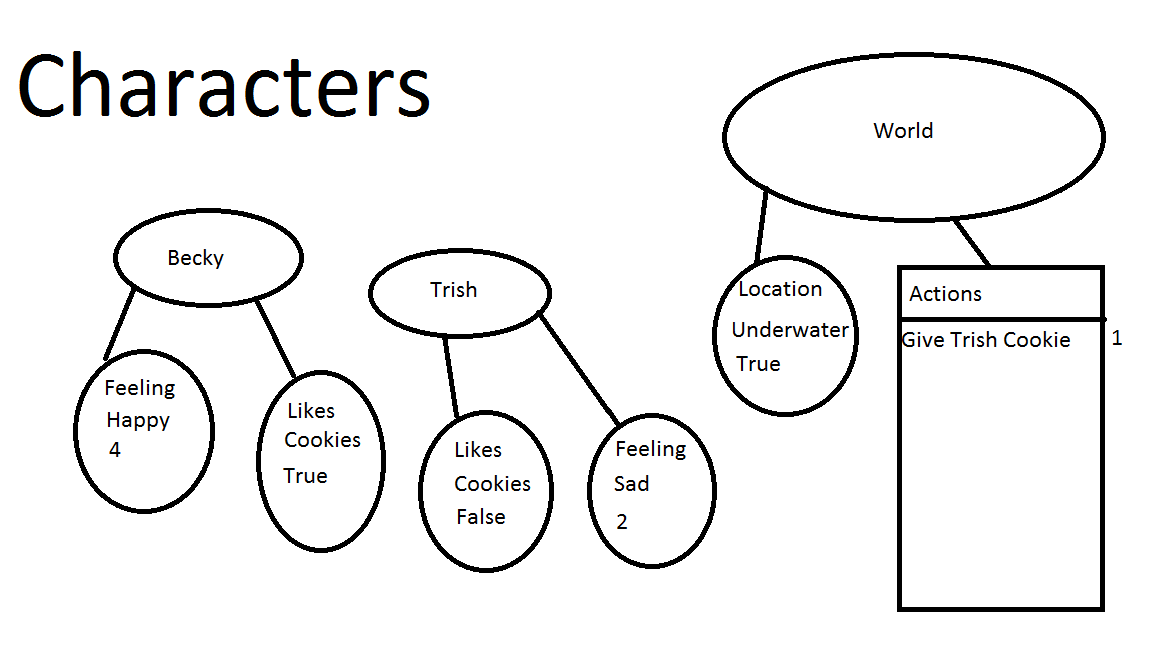
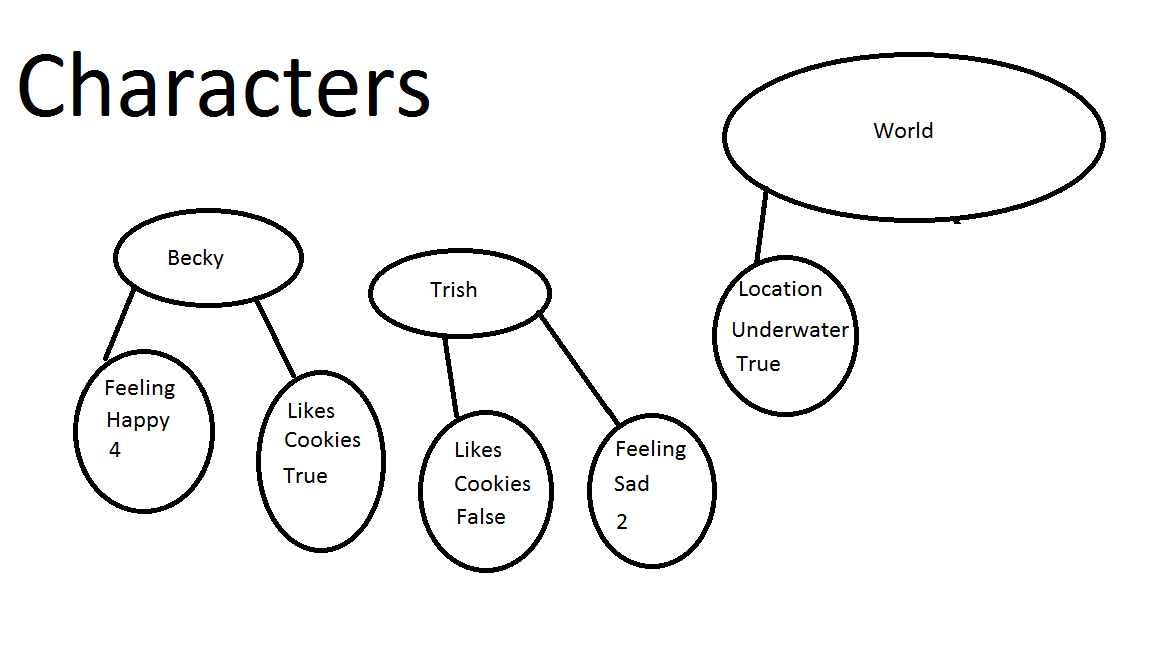
More or less finished README

Changed region(s): [[0.7812, 0.3704, 0.9688, 0.9568], [0.8125, 0.3395, 0.8438, 0.3704]]

diff --git a/README.md b/README.md
@@ -30,7 +30,7 @@ The SDB's basic building blocks are Classes (Not to be confused with Computer Sc
 SDB Classes can either have values of booleans or ints. If Classes have int values, then they have to be given a minimum and a maximum value. SDB Classes are also given default values.
 
 Example JSON to populate an SDB:
-```
+```json
 [
 {
 	"class" : "feeling",
@@ -60,6 +60,218 @@ Example JSON to populate an SDB:
 }
 ]
 ``` 
+
+Characters
+----------
+
+The Characters are entities within StoryTree that can be given characteristics and be interacted with. There are 2 default characters called "World" and "Player", which can also be given characteristics.
+
+![alt tag](https://github.com/grnnn/StoryTree/blob/master/Examples/CharacterExample.png)
+
+Characteristics are expressed by SDB values. You can give a character a characteristic by specifying what the class, type, and value is for that characteristic.
+
+Example JSON to populate characters:
+```json
+{
+	"characters" : ["Becky", "Trish"],
+	"characteristics" : 
+	[
+		{
+			"name" : "Becky", 
+			"class" : "feeling",
+			"type" : "happy",
+			"value" : 4
+		},
+		{
+			"name" : "Becky",
+			"class" : "likes eating",
+			"type" : "cookie",
+			"value" : true
+		},
+		{
+			"name" : "Trish", 
+			"class" : "feeling",
+			"type" : "sad",
+			"value" : 2
+		},
+		{
+			"name" : "Trish",
+			"class" : "likes eating",
+			"type" : "cookies",
+			"value" : false
+		},
+		{
+			"name" : "World", 
+			"class" : "location",
+			"type" : "underwater"
+		},
+		{
+			"name" : "Player",
+			"class" : "owns",
+			"type" : "cookie",
+			"value" : true
+		}
+	]
+}
+```
+
+Action Tree
+-----------
+
+The Action Tree brings StoryTree together, and it is absolutely the most complex part. Every character can be assigned an Action Tree, and Actions make up every node on the tree.
+
+![alt tag](https://github.com/grnnn/StoryTree/blob/master/Examples/ActionTreeExample.png)
+
+An Action is given a name (which doesn't have to be unique), a uid (unique ID, has to be a unique int), a identifier puts it at the top of the tree, a parent uid (0 if at top of tree), a set of children uids, a class,
+a set of Preconditions, and a set of Expressions.
+
+Preconditions are expressed by an SDB Value (class, type, value), a character, and an operator. The operation on the precondition describes how it is compared to a precondition (ex. ">", "<", "=="). All preconditions on an action have to be true for it to be traversed to. All Actions have to have at least 1 Precondition.
+
+Expressions change chracteristics of the StoryTree system. They are also represented as SDB values (class, type, value), a character, and an operator. The operation on the Expression describes how it changes a Characteristic (ex. "+", "-", "="). The character specifies which character's characteristic to change. Actions don't have to have an Expression.
+
+There are two main ways that the Action Tree is interacted with:
+  *Story Tree can retrieve a number of specified leaf (no children) actions from the Action class with the getActions() function. The Action Tree will only return leaf actions that have satisfied all of the preconditions of all preceding parents. (*Note*: If an Action is given a class, all child actions will inherit that class. No more than 1 action from the same class can be returned by the getOptions() function. This is a useful way to break your actions up into categories.)
+  *Story Tree can execute a leaf Action that is accesible by way of getOptions(). You do this with the executeAction() function. This will resolve all expressions of the Action, and then also resolve all of the expressions of all of the parent Actions.
+
+Example JSON to populate Action Tree:
+```json
+[
+{
+	"name" : "Trish Looks sad. Ask her if she's okay.",
+	"uid" : 15495,
+	"first" : true,
+	"parent" : 0,
+	"preconditions" : 
+	[
+		{
+			"character" : "Trish",
+			"class" : "feeling",
+			"type" : "sad",
+			"operation" : "==",
+			"value" : 2
+		}
+	]
+},
+{
+	"name" : "Give Trish a Cookie",
+	"uid" : 15496,
+	"first" : true,
+	"parent" : 0,
+	"class" : "Give Cookie",
+	"preconditions" : 
+	[
+		{
+			"character" : "Player",
+			"class" : "owns",
+			"type" : "cookie",
+			"operation" : "==",
+			"value" : true
+		}
+	],
+	"expressions" :
+	[
+		{
+			"character" : "Trish",
+			"class" : "owns",
+			"type" : "cookie",
+			"operation" : "=",
+			"value" : true
+		},
+		{
+			"character" : "Player",
+			"class" : "owns",
+			"type" : "cookie",
+			"operation" : "=",
+			"value" : false
+		}
+	],
+	"leadsTo": 
+	[
+		15497, 15498
+	]
+},
+{
+	"name" : "Give Trish a cookie, and Trish is Happy",
+	"uid" : 15497,
+	"first" : false,
+	"parent" : 15496,
+	"preconditions" :
+	[
+		{
+			"character" : "Trish",
+			"class" : "feeling",
+			"type" : "happy",
+			"operation" : ">",
+			"value" : 5
+		}
+	],
+	"leadsTo": 
+	[
+		15499, 15500
+	]
+},
+{
+	"name" : "Give Trish a cookie, and Trish is Unhappy",
+	"uid" : 15498,
+	"first" : false,
+	"parent" : 15496,
+	"preconditions" :
+	[
+		{
+			"character" : "Trish",
+			"class" : "feeling",
+			"type" : "happy",
+			"operation" : "<",
+			"value" : 6
+		}
+	], 
+	"expressions" :
+	[
+		{
+			"character" : "Trish",
+			"class" : "feeling",
+			"type" : "angry",
+			"operation" : "+",
+			"value" : 2
+		}
+	]
+},
+{
+	"name" : "Give Trish a cookie, Trish is happy, and Trish likes cookies",
+	"uid" : 15499,
+	"first" : false,
+	"parent" : 15497,
+	"preconditions" :
+	[
+		{
+			"character" : "Trish",
+			"class" : "likes eating",
+			"type" : "cookie",
+			"operation" : "==",
+			"value" : true
+		}
+	]
+},
+{
+	"name" : "Give Trish a cookie, Trish is happy, and Trish doesn't like cookies",
+	"uid" : 15499,
+	"first" : false,
+	"parent" : 15497,
+	"preconditions" :
+	[
+		{
+			"character" : "Trish",
+			"class" : "likes eating",
+			"type" : "cookie",
+			"operation" : "==",
+			"value" : false
+		}
+	]
+}
+]
+```
+
+*Note:* StoryTree reads in a path to a folder for Action Tree population. Each character has a json file that has the exact name of that character (for example, the above json is called Trish.json), and then that folder is moved to the folder. StoryTree looks for all characters registered by characters.json when evaluating (Except for "World" and "Player").
 
 Public Functions:
 =================
